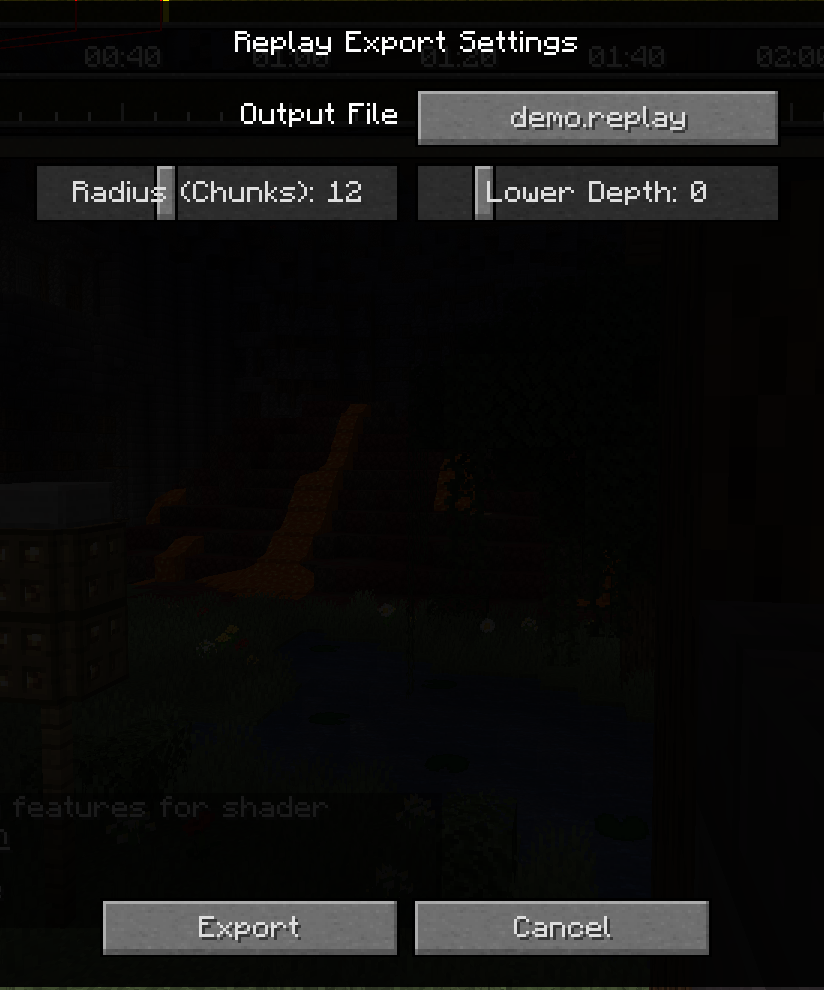
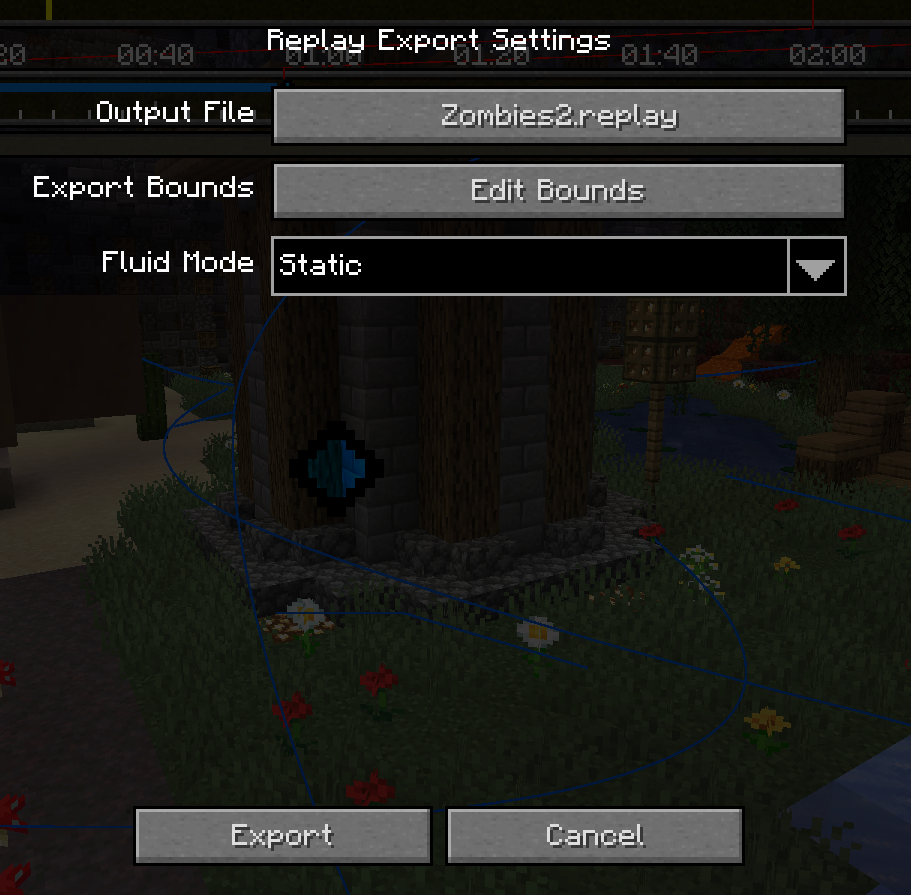
updated tutorial with new UI

diff --git a/README.md b/README.md
@@ -37,9 +37,9 @@ This will open a screen for you to select an output file and configure some repl
 
 - `Lower Depth`: The Y value at which to cut off exporting.
 
-Blocks are quite expensive to import and export, and the radius will heavily impact your import/export times. It is recommended to determine the bare minimum of what must be exported in your scene and clamp your radius to that.
+Blocks are quite expensive to import and export, and your export region will *significantly* impact how long the file takes to process. It is recommended to determine the bare minimum of what must be exported in your scene and clamp your export bounds to that.
 
-<img title="" src="doc/images/export_settings.png" alt="The Export Settings menu" width="362" data-align="center">
+<img title="" src="doc/images/export_settings.png" alt="The Export Settings menu" data-align="center" width="647">
 
 Once you're ready, click the "Export" button at the bottom left and wait for it to complete. It is common for the window to appear frozen while the initial block world is captured.
 
